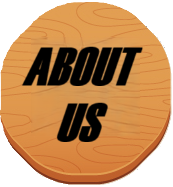
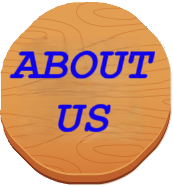
update

Changed region(s): [[0.0578, 0.2406, 0.896, 0.4813], [0.3179, 0.5348, 0.6647, 0.7754], [0.6647, 0.7219, 0.6936, 0.7487]]

diff --git a/Test1.py b/Test1.py
@@ -294,7 +294,7 @@ buttons=[button("Assets\Buttons\Default\start.png",(x/4,y/8),((x/2)-(unitx*120),
          button("Assets\Buttons\Default\settings.png",(x/4,y/8),((x/2)-(unitx*120),(y/2)-(unity*100)),"options"),
          button("Assets\Buttons\Default\exit.png",(x/4,y/8),((x/2)-(unitx*120),(y/2)+(unity*50)),"exit"),
          button("Assets/Buttons/Default/reset.png",(x/28,y/19),((x/2)+(unitx*54),(y/2)+(unity*256)),"reset"),
-         button("Assets/Buttons/Default/reset.png",(x/8,y/12),((x/2)+(unitx*54),(y/2)+(unity*256)),"about us")]
+         button("Assets/Buttons/Default/about us.png",(x/12,y/11),((unitx*850),(unity*850)),"about us")]
 
 #equations list
 equations=[equationC(),equationC(),equationC(),equationC(),equationC(),equationC(),equationC(),equationC(),equationC(),equationC(),equationC(),equationC(),equationC()]
